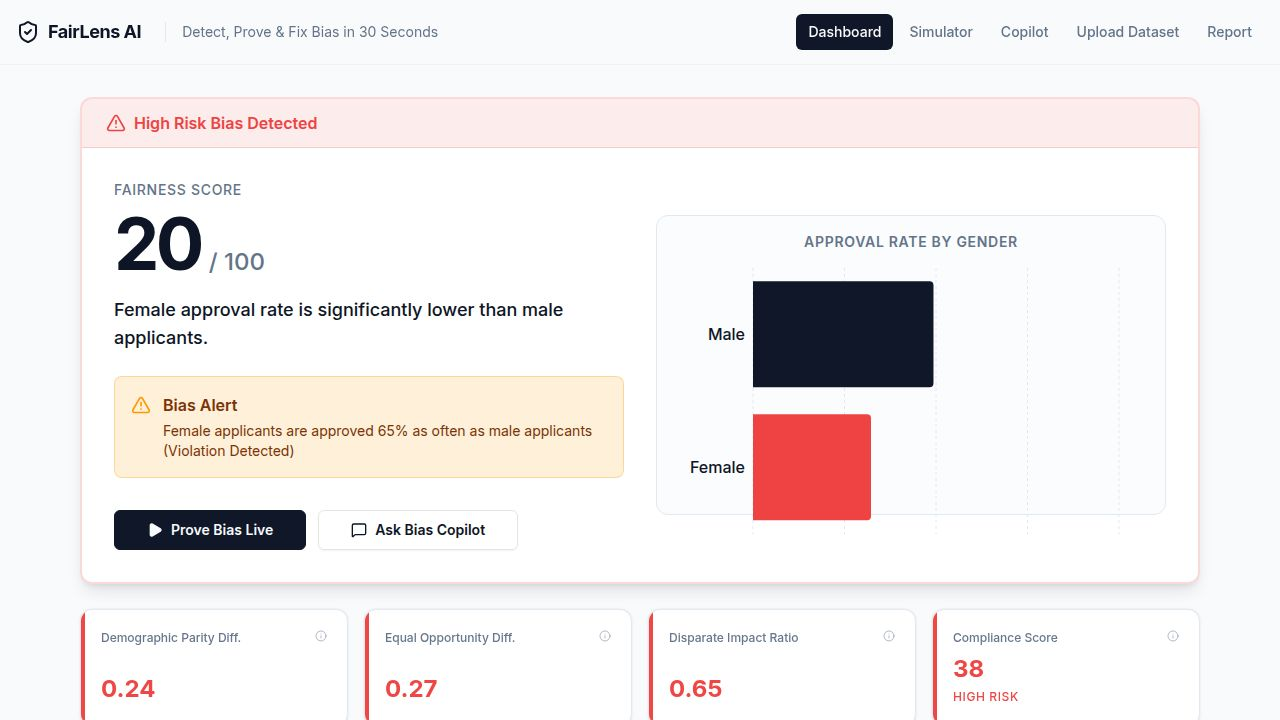
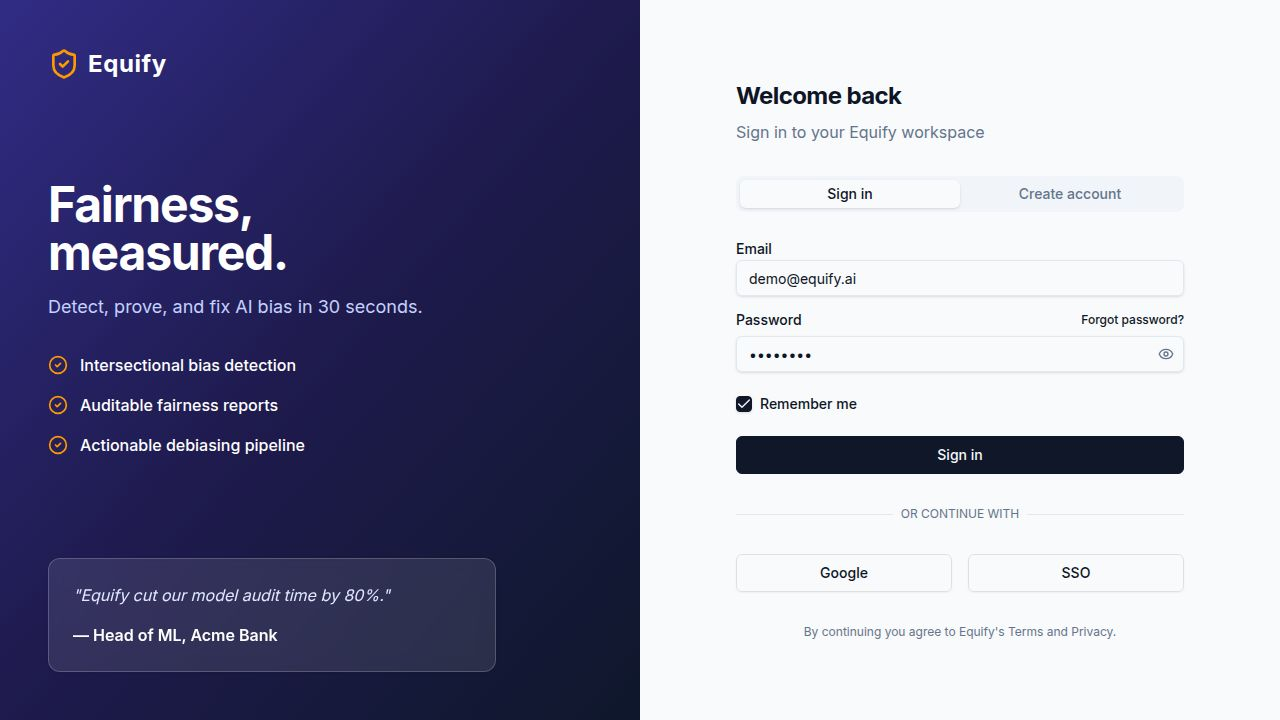
Add backend module for fairness analysis of loan approval data
Implement a new API endpoint to analyze CSV datasets for fairness metrics, biases, and provide improvement suggestions.

Replit-Commit-Author: Agent
Replit-Commit-Session-Id: 294d2924-6755-422e-ae74-5d636db40013
Replit-Commit-Checkpoint-Type: full_checkpoint
Replit-Commit-Event-Id: 1a86b120-8ddf-47b8-b360-9d533881c875
Replit-Commit-Screenshot-Url: https://storage.googleapis.com/screenshot-production-us-central1/75d21992-a7f5-4606-a67c-99c274950648/294d2924-6755-422e-ae74-5d636db40013/qILZUPu
Replit-Helium-Checkpoint-Created: true

diff --git a/artifacts/api-server/src/lib/fairness.ts b/artifacts/api-server/src/lib/fairness.ts
@@ -1,0 +1,341 @@
+// Backend fairness analysis module for loan approval datasets.
+// Pure functions — no I/O. Input is a CSV string; output is a structured
+// fairness report with metrics, verdict, and improvement suggestions.
+
+export type Row = Record<string, string | number>;
+
+export type DatasetValidation = {
+  rowCount: number;
+  columnCount: number;
+  columns: string[];
+  missingCells: number;
+  invalidRows: number;
+  warnings: string[];
+};
+
+export type GroupStats = {
+  group: string;
+  total: number;
+  approved: number;
+  approvalRate: number; // 0..1
+};
+
+export type FairnessMetrics = {
+  groups: GroupStats[];
+  favoredGroup: string | null;
+  disadvantagedGroup: string | null;
+  selectionRateDifference: number;       // |max - min| approval rate
+  disparateImpactRatio: number;          // min / max approval rate
+  statisticalParityDifference: number;   // signed: P(Y=1|A=fav) - P(Y=1|A=disadv)
+};
+
+export type FairnessFlags = {
+  biased: boolean;          // DI < 0.8
+  highlyBiased: boolean;    // |approval-rate diff| > 20%
+  failedMetrics: string[];  // names of metrics that failed
+};
+
+export type FairnessReport = {
+  validation: DatasetValidation;
+  metrics: FairnessMetrics;
+  flags: FairnessFlags;
+  explanation: string;
+  verdict: "Fair Model" | "Biased Model";
+  suggestions: string[];
+};
+
+// ---------- CSV parsing ----------
+
+export function parseCSV(text: string): { columns: string[]; rows: Row[] } {
+  const lines = text
+    .replace(/\r\n/g, "\n")
+    .split("\n")
+    .map((l) => l.trim())
+    .filter((l) => l.length > 0);
+  if (lines.length === 0) return { columns: [], rows: [] };
+
+  const splitLine = (line: string): string[] => {
+    const out: string[] = [];
+    let cur = "";
+    let inQuotes = false;
+    for (let i = 0; i < line.length; i++) {
+      const ch = line[i];
+      if (ch === '"') {
+        if (inQuotes && line[i + 1] === '"') {
+          cur += '"';
+          i++;
+        } else {
+          inQuotes = !inQuotes;
+        }
+      } else if (ch === "," && !inQuotes) {
+        out.push(cur);
+        cur = "";
+      } else {
+        cur += ch;
+      }
+    }
+    out.push(cur);
+    return out.map((s) => s.trim());
+  };
+
+  const columns = splitLine(lines[0]).map((c) =>
+    c.toLowerCase().replace(/\s+/g, "_"),
+  );
+  const rows: Row[] = [];
+  for (let i = 1; i < lines.length; i++) {
+    const cells = splitLine(lines[i]);
+    const r: Row = {};
+    columns.forEach((col, j) => {
+      const raw = cells[j] ?? "";
+      const num = Number(raw);
+      r[col] =
+        raw !== "" && !isNaN(num) && /^-?\d+(\.\d+)?$/.test(raw) ? num : raw;
+    });
+    rows.push(r);
+  }
+  return { columns, rows };
+}
+
+// ---------- Column detection ----------
+
+function detectColumn(columns: string[], candidates: string[]): string | null {
+  for (const cand of candidates) {
+    const exact = columns.find((c) => c === cand);
+    if (exact) return exact;
+  }
+  for (const cand of candidates) {
+    const partial = columns.find((c) => c.includes(cand));
+    if (partial) return partial;
+  }
+  return null;
+}
+
+function isApprovedValue(v: unknown): boolean {
+  if (typeof v === "number") return v >= 1;
+  const s = String(v).toLowerCase().trim();
+  return (
+    s === "yes" ||
+    s === "true" ||
+    s === "1" ||
+    s === "approved" ||
+    s === "y"
+  );
+}
+
+function normalizeGender(v: unknown): string {
+  const s = String(v).trim();
+  if (!s) return "Unknown";
+  const lower = s.toLowerCase();
+  if (lower === "m" || lower === "male" || lower === "1") return "Male";
+  if (lower === "f" || lower === "female" || lower === "0") return "Female";
+  return s.charAt(0).toUpperCase() + s.slice(1).toLowerCase();
+}
+
+// ---------- Validation ----------
+
+export function validateDataset(
+  columns: string[],
+  rows: Row[],
+): DatasetValidation {
+  let missing = 0;
+  let invalid = 0;
+  const warnings: string[] = [];
+
+  for (const r of rows) {
+    let rowHadInvalid = false;
+    for (const c of columns) {
+      const v = r[c];
+      if (v === "" || v === null || v === undefined) {
+        missing++;
+        rowHadInvalid = true;
+      } else if (typeof v === "number" && Number.isNaN(v)) {
+        missing++;
+        rowHadInvalid = true;
+      }
+    }
+    if (rowHadInvalid) invalid++;
+  }
+
+  const expected = ["gender", "approved"];
+  for (const e of expected) {
+    if (!detectColumn(columns, [e])) {
+      warnings.push(`Recommended column "${e}" not found in dataset.`);
+    }
+  }
+
+  if (rows.length < 30) {
+    warnings.push(
+      `Sample size is small (${rows.length} rows). Fairness metrics may be unreliable.`,
+    );
+  }
+
+  return {
+    rowCount: rows.length,
+    columnCount: columns.length,
+    columns,
+    missingCells: missing,
+    invalidRows: invalid,
+    warnings,
+  };
+}
+
+// ---------- Metrics ----------
+
+export function computeFairnessMetrics(
+  rows: Row[],
+  columns: string[],
+): FairnessMetrics {
+  const genderCol = detectColumn(columns, ["gender", "sex"]);
+  const approvedCol = detectColumn(columns, [
+    "approved",
+    "approval",
+    "label",
+    "target",
+    "outcome",
+    "loan_status",
+    "decision",
+  ]);
+
+  if (!genderCol || !approvedCol) {
+    return {
+      groups: [],
+      favoredGroup: null,
+      disadvantagedGroup: null,
+      selectionRateDifference: 0,
+      disparateImpactRatio: 1,
+      statisticalParityDifference: 0,
+    };
+  }
+
+  const buckets = new Map<string, { approved: number; total: number }>();
+  for (const r of rows) {
+    const g = normalizeGender(r[genderCol]);
+    if (!buckets.has(g)) buckets.set(g, { approved: 0, total: 0 });
+    const b = buckets.get(g)!;
+    b.total += 1;
+    if (isApprovedValue(r[approvedCol])) b.approved += 1;
+  }
+
+  const groups: GroupStats[] = Array.from(buckets.entries())
+    .map(([group, v]) => ({
+      group,
+      total: v.total,
+      approved: v.approved,
+      approvalRate: v.total === 0 ? 0 : v.approved / v.total,
+    }))
+    .sort((a, b) => b.approvalRate - a.approvalRate);
+
+  if (groups.length < 2) {
+    return {
+      groups,
+      favoredGroup: groups[0]?.group ?? null,
+      disadvantagedGroup: null,
+      selectionRateDifference: 0,
+      disparateImpactRatio: 1,
+      statisticalParityDifference: 0,
+    };
+  }
+
+  const favored = groups[0];
+  const disadvantaged = groups[groups.length - 1];
+  const selectionRateDifference = favored.approvalRate - disadvantaged.approvalRate;
+  const disparateImpactRatio =
+    favored.approvalRate === 0
+      ? 1
+      : disadvantaged.approvalRate / favored.approvalRate;
+  const statisticalParityDifference =
+    favored.approvalRate - disadvantaged.approvalRate;
+
+  return {
+    groups,
+    favoredGroup: favored.group,
+    disadvantagedGroup: disadvantaged.group,
+    selectionRateDifference: round(selectionRateDifference, 4),
+    disparateImpactRatio: round(disparateImpactRatio, 4),
+    statisticalParityDifference: round(statisticalParityDifference, 4),
+  };
+}
+
+// ---------- Rules / verdict ----------
+
+export function applyFairnessRules(metrics: FairnessMetrics): FairnessFlags {
+  const failedMetrics: string[] = [];
+  const biased = metrics.disparateImpactRatio < 0.8;
+  const highlyBiased = metrics.selectionRateDifference > 0.2;
+
+  if (biased) failedMetrics.push("Disparate Impact Ratio (< 0.8)");
+  if (highlyBiased)
+    failedMetrics.push("Selection Rate Difference (> 20%)");
+  if (Math.abs(metrics.statisticalParityDifference) > 0.1)
+    failedMetrics.push("Statistical Parity Difference (> 0.1)");
+
+  return { biased, highlyBiased, failedMetrics };
+}
+
+function buildExplanation(
+  metrics: FairnessMetrics,
+  flags: FairnessFlags,
+): string {
+  if (!metrics.favoredGroup || !metrics.disadvantagedGroup) {
+    return "Could not compute fairness metrics — dataset is missing the gender or approval column, or contains only one group.";
+  }
+  const fav = metrics.groups.find((g) => g.group === metrics.favoredGroup)!;
+  const dis = metrics.groups.find(
+    (g) => g.group === metrics.disadvantagedGroup,
+  )!;
+
+  const diffPct = (metrics.selectionRateDifference * 100).toFixed(1);
+  const di = metrics.disparateImpactRatio.toFixed(2);
+  const intensity = flags.highlyBiased
+    ? "a very large gap"
+    : flags.biased
+      ? "a meaningful gap"
+      : "a small gap";
+
+  const failedLine =
+    flags.failedMetrics.length > 0
+      ? ` Failed checks: ${flags.failedMetrics.join("; ")}.`
+      : " All fairness checks passed.";
+
+  return (
+    `Group "${fav.group}" is favored with an approval rate of ${(fav.approvalRate * 100).toFixed(1)}% ` +
+    `(${fav.approved}/${fav.total}), while group "${dis.group}" was approved at ${(dis.approvalRate * 100).toFixed(1)}% ` +
+    `(${dis.approved}/${dis.total}). That is ${intensity} of ${diffPct} percentage points, ` +
+    `a Disparate Impact Ratio of ${di}, and a Statistical Parity Difference of ${metrics.statisticalParityDifference.toFixed(2)}.` +
+    failedLine
+  );
+}
+
+function buildSuggestions(flags: FairnessFlags): string[] {
+  if (!flags.biased && !flags.highlyBiased) {
+    return [
+      "Continue monitoring fairness metrics on new cohorts to catch drift.",
+      "Document the fairness review for compliance and audit trails.",
+    ];
+  }
+  return [
+    "Remove the sensitive attribute (gender) from training features.",
+    "Audit other features for proxy correlation with gender (e.g., income, zipcode).",
+    "Rebalance the training set so each group is represented proportionally.",
+    "Apply fairness-aware ML techniques (reweighing, adversarial debiasing, equalized odds post-processing).",
+    "Re-evaluate the model after mitigation and compare metrics before vs. after.",
+  ];
+}
+
+export function analyzeCSV(csvText: string): FairnessReport {
+  const { columns, rows } = parseCSV(csvText);
+  const validation = validateDataset(columns, rows);
+  const metrics = computeFairnessMetrics(rows, columns);
+  const flags = applyFairnessRules(metrics);
+  const explanation = buildExplanation(metrics, flags);
+  const suggestions = buildSuggestions(flags);
+  const verdict: FairnessReport["verdict"] =
+    flags.biased || flags.highlyBiased ? "Biased Model" : "Fair Model";
+
+  return { validation, metrics, flags, explanation, verdict, suggestions };
+}
+
+function round(n: number, places: number): number {
+  const f = Math.pow(10, places);
+  return Math.round(n * f) / f;
+}

diff --git a/artifacts/api-server/src/routes/fairness.ts b/artifacts/api-server/src/routes/fairness.ts
@@ -1,0 +1,42 @@
+import { Router, type IRouter, type Request, type Response } from "express";
+import express from "express";
+import { analyzeCSV } from "../lib/fairness";
+
+const router: IRouter = Router();
+
+// Accept large raw text bodies (CSV) and JSON payloads
+router.use(express.text({ type: ["text/csv", "text/plain"], limit: "10mb" }));
+router.use(express.json({ limit: "10mb" }));
+
+router.post("/fairness/analyze", (req: Request, res: Response) => {
+  let csv: string | undefined;
+
+  if (typeof req.body === "string") {
+    csv = req.body;
+  } else if (req.body && typeof req.body === "object") {
+    if (typeof (req.body as { csv?: unknown }).csv === "string") {
+      csv = (req.body as { csv: string }).csv;
+    }
+  }
+
+  if (!csv || csv.trim().length === 0) {
+    return res.status(400).json({
+      error:
+        "Missing CSV payload. POST CSV as text/csv body or JSON { csv: '...' }.",
+    });
+  }
+
+  try {
+    const report = analyzeCSV(csv);
+    return res.json(report);
+  } catch (err) {
+    const message = err instanceof Error ? err.message : "Unknown error";
+    return res.status(500).json({ error: `Failed to analyze CSV: ${message}` });
+  }
+});
+
+router.get("/fairness/healthz", (_req, res) => {
+  res.json({ status: "ok", module: "fairness" });
+});
+
+export default router;

diff --git a/artifacts/api-server/src/routes/index.ts b/artifacts/api-server/src/routes/index.ts
@@ -1,8 +1,10 @@
 import { Router, type IRouter } from "express";
 import healthRouter from "./health";
+import fairnessRouter from "./fairness";
 
 const router: IRouter = Router();
 
 router.use(healthRouter);
+router.use(fairnessRouter);
 
 export default router;